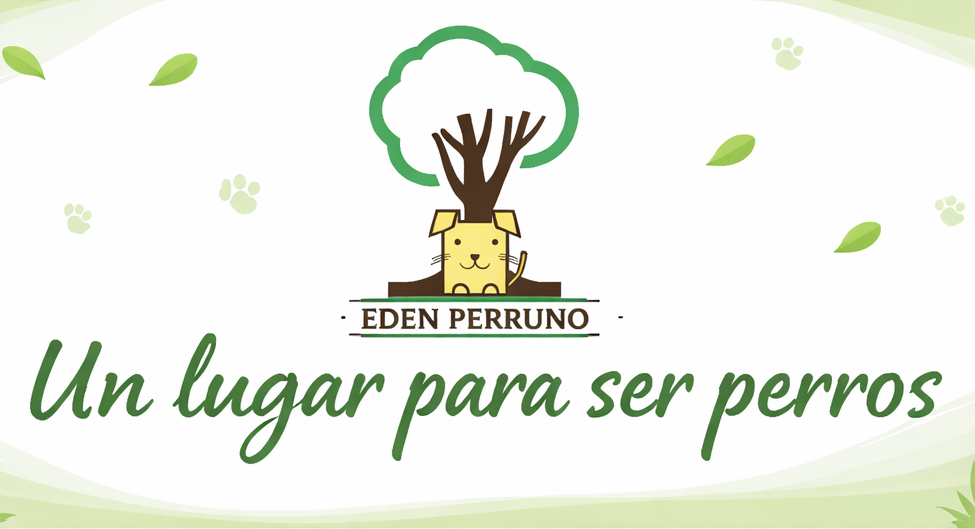
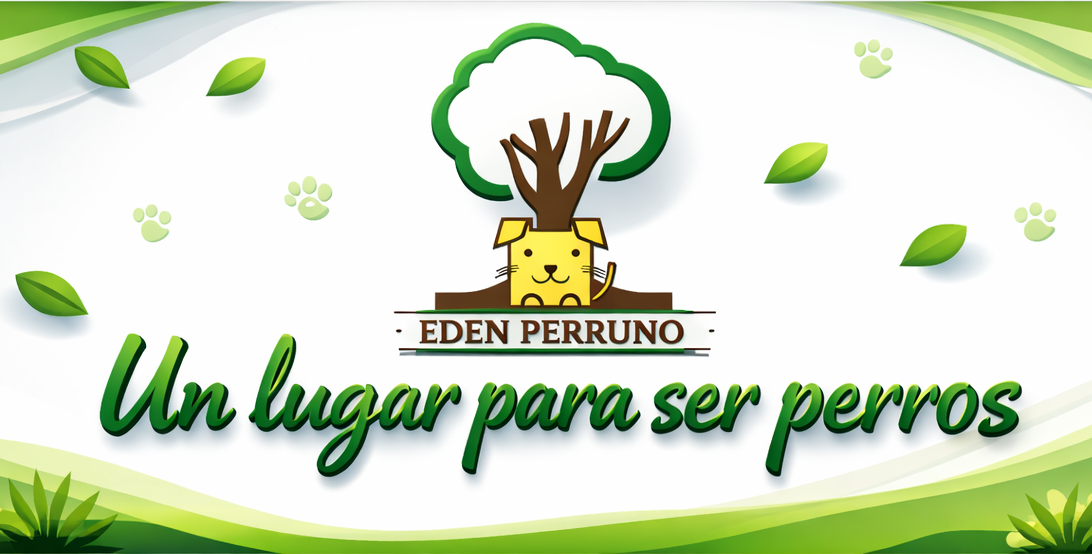
mobielbanner

diff --git a/index.html b/index.html
@@ -18,7 +18,7 @@
 
         <div class="banner">
             <img src="./assets/bannerprincipaldos.png"
-                srcset="./assets/bannerprincipaldos.png 768w, ./assets/bannerprincipaldos.png 1200w"
+                srcset="./assets/bannermobile.png 768w, ./assets/bannerprincipaldos.png 1200w"
                 sizes="(max-width: 768px) 100vw, 1200px" alt="Banner principal">
         </div>
 
